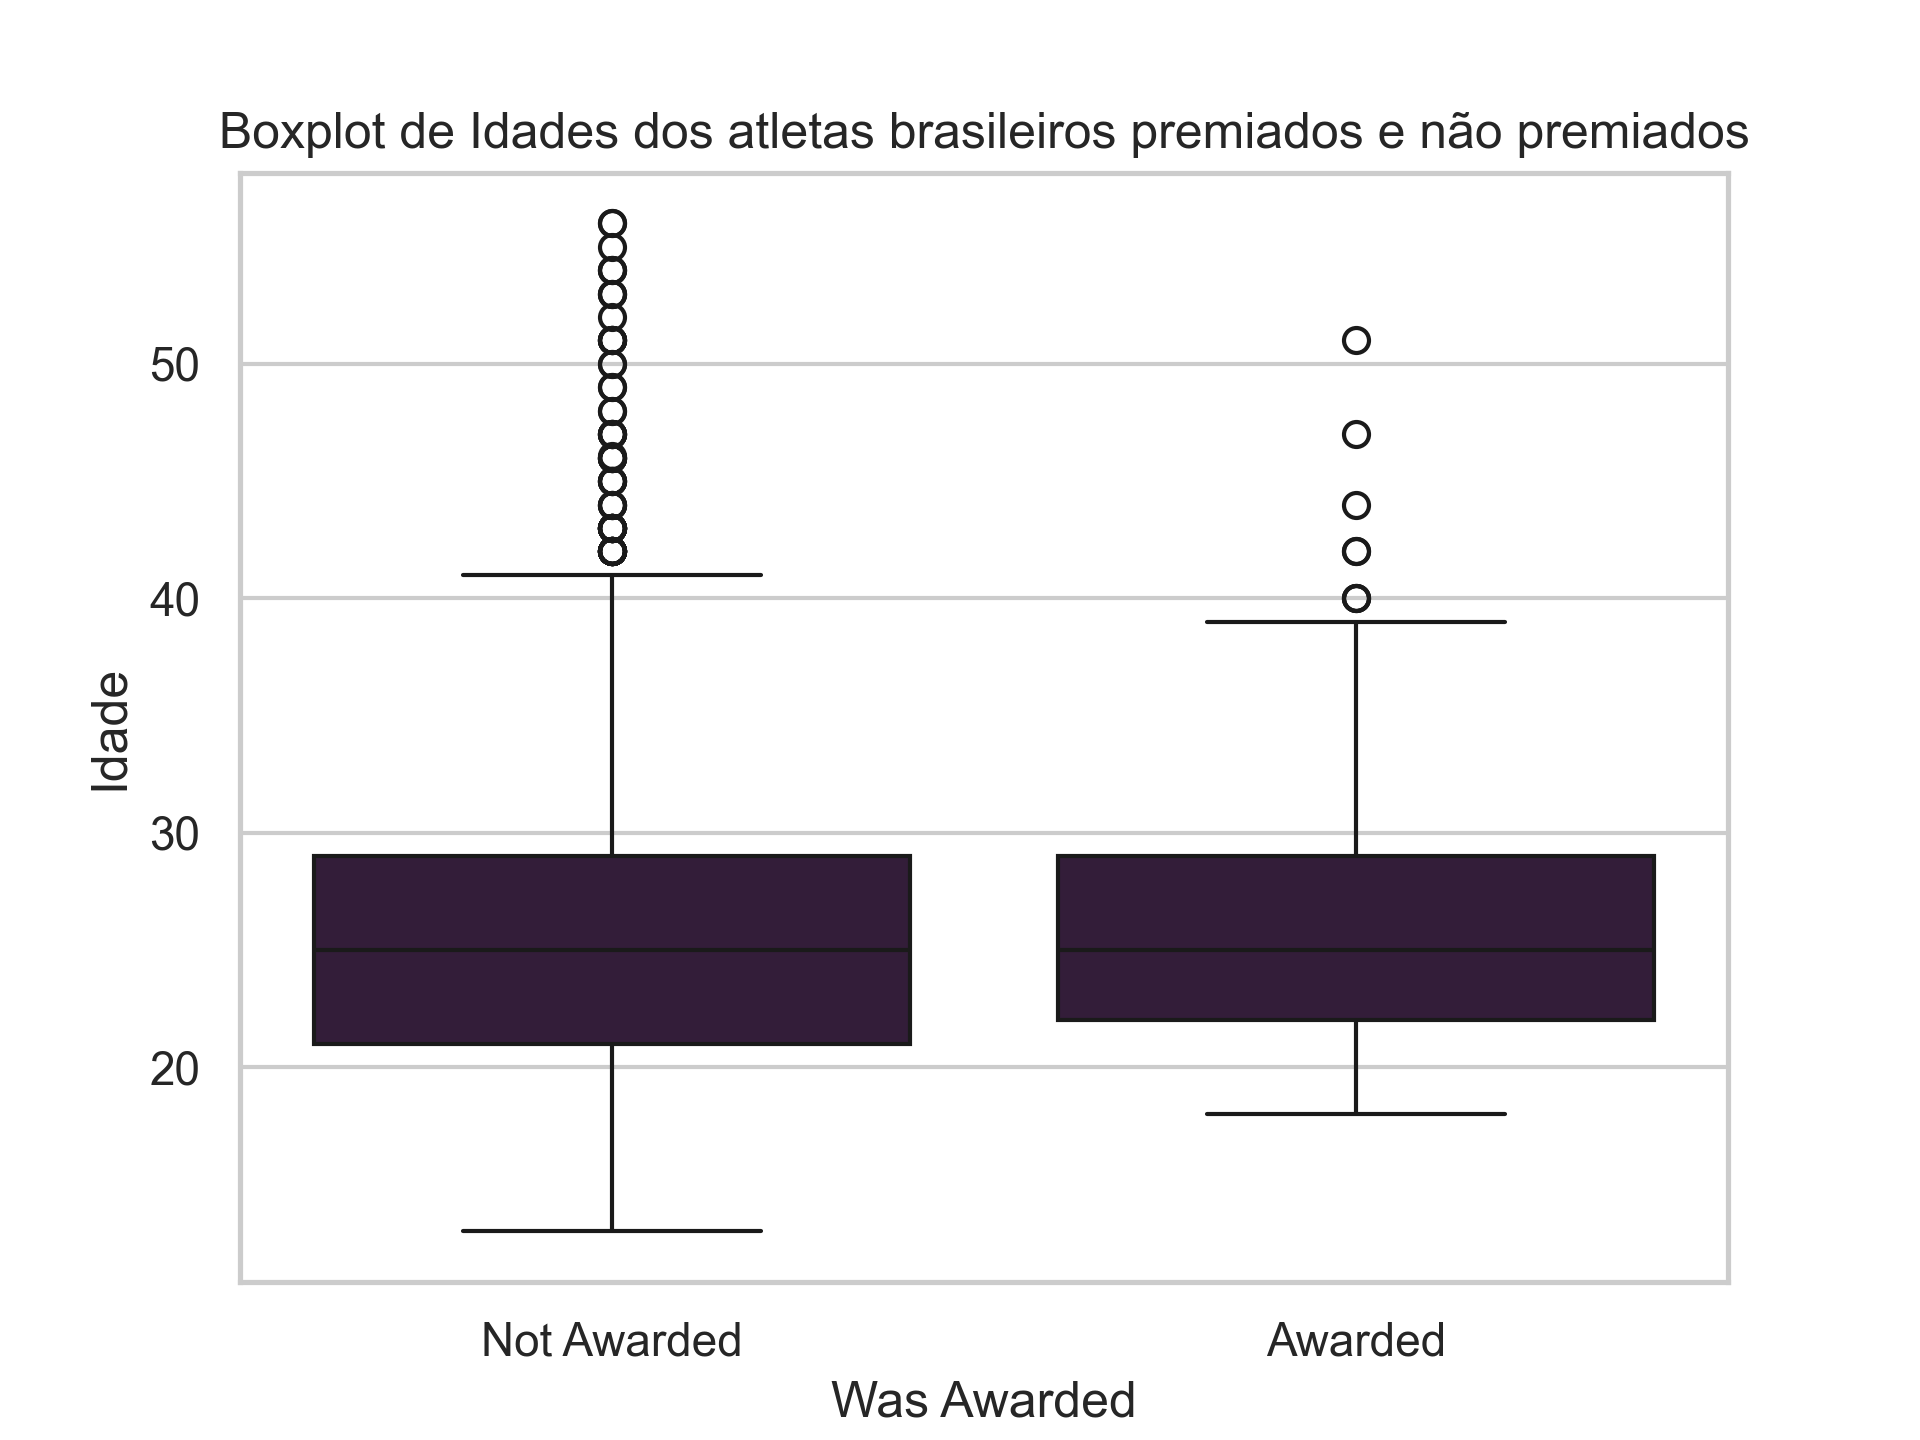
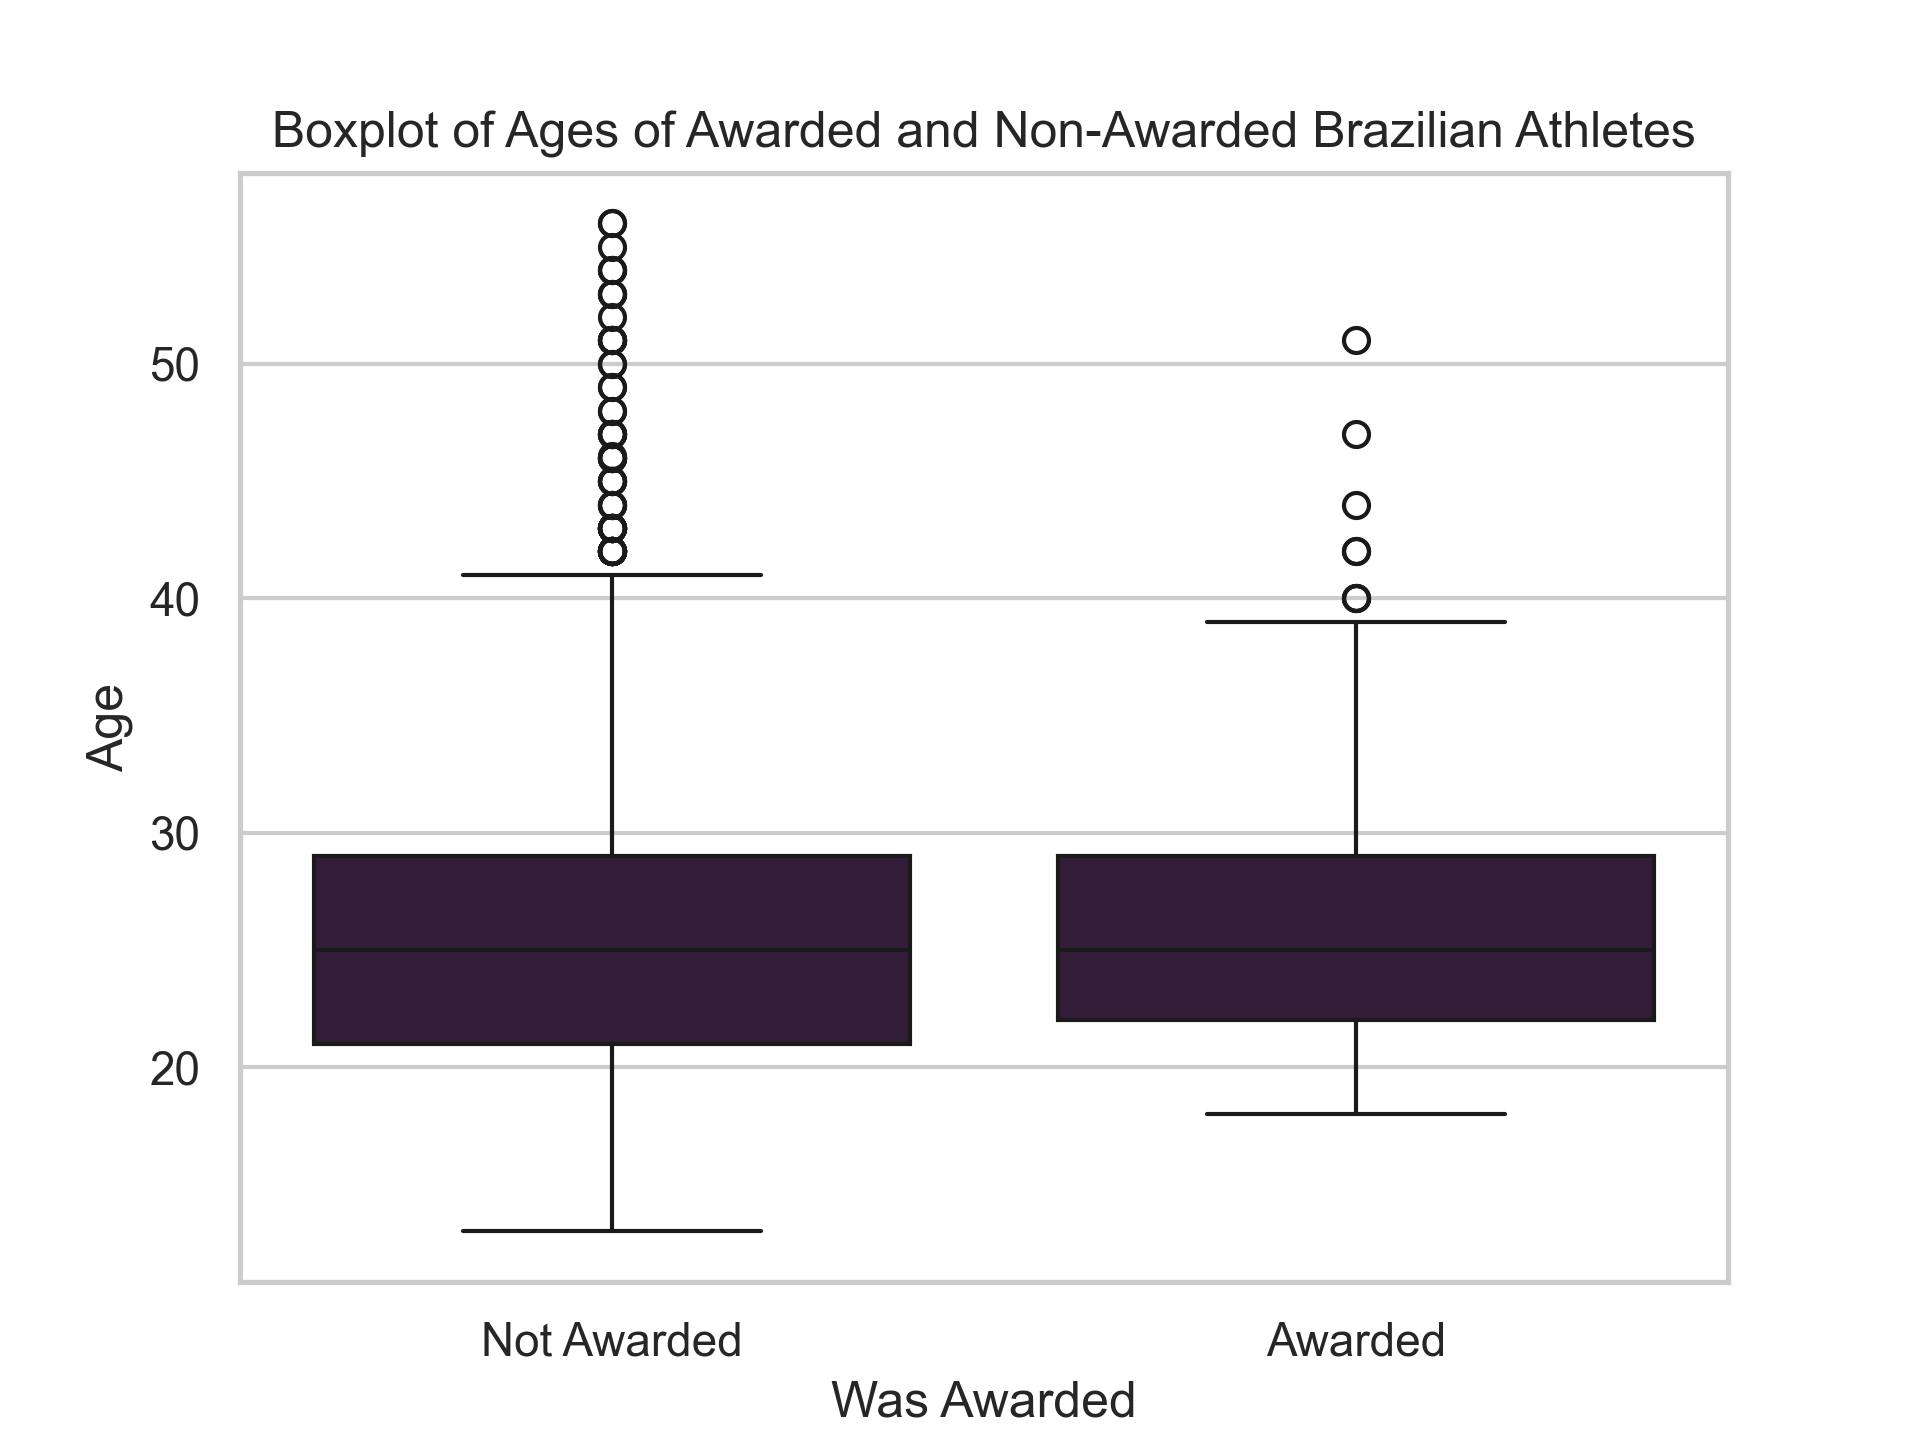
unittest medalist_x_urbanization

Changed region(s): [[0.3438, 0.0625, 0.9062, 0.125], [0.125, 0.0625, 0.3125, 0.125], [0.0312, 0.4688, 0.0938, 0.5625]]

diff --git a/tests/test_medalist_x_urbanization_analysis.py b/tests/test_medalist_x_urbanization_analysis.py
@@ -1,0 +1,140 @@
+import unittest
+import pandas as pd
+from src.medalist_x_urbanization_analysis import *
+from matplotlib import pyplot as plt
+
+
+class TestMedalistUrbanizationAnalysis(unittest.TestCase):
+
+    def setUp(self):
+        # Sample data for testing
+        self.athletes_df = pd.DataFrame({
+            'Year': [2016, 2016, 2016, 2016],
+            'NOC': ['USA', 'BRA', 'USA', 'BRA'],
+            'Medal': [1, 2, 0, 3]
+        })
+        self.urbanization_df = pd.DataFrame({
+            'Country': ['United States', 'Brazil'],
+            'Year': [2016, 2016],
+            'Pop_Absolute': [320000, 200000],
+            'Urban_Pop_Percent': [81.6, 84.3]
+        })
+        self.noc_df = pd.DataFrame({
+            'NOC': ['USA', 'BRA'],
+            'Country': ['United States', 'Brazil']
+        })
+
+    def test_prepare_2016_medalist_urbanization_analysis(self):
+        result = prepare_2016_medalist_urbanization_analysis(self.athletes_df, self.urbanization_df, self.noc_df)
+        
+        # Check if the result is a DataFrame
+        self.assertIsInstance(result, pd.DataFrame)
+        
+        # Check if the DataFrame has the expected columns
+        expected_columns = ['NOC', 'Medalists', 'Country', 'Pop_Absolute', 'Urban_Pop_Percent', 'Urban_Pop_Absolute', 'Urban_Medalist_Density']
+        self.assertTrue(all(column in result.columns for column in expected_columns))
+        
+        # Check if the DataFrame has the correct number of rows
+        self.assertEqual(len(result), 2)
+        
+        # Check if the values are calculated correctly
+        usa_row = result[result['Country'] == 'United States'].iloc[0]
+        self.assertEqual(usa_row['Medalists'], 1)
+        self.assertAlmostEqual(usa_row['Urban_Pop_Absolute'], 261119999.99999997)
+        self.assertAlmostEqual(usa_row['Urban_Medalist_Density'], 1 / (261119999.99999997))
+
+
+class TestCreateScatterplot2016MedalistUrbanization(unittest.TestCase):
+
+    def setUp(self):
+        self.data_2016 = pd.DataFrame({
+            'Country': ['United States', 'Brazil'],
+            'Urban_Pop_Percent': [81.6, 84.3],
+            'Urban_Medalist_Density': [0.000003, 0.000015],
+            'Medalists': [1, 5]
+        })
+
+    def test_create_scatterplot_2016_medalist_urbanization(self):
+        scatterplot = create_scatterplot_2016_medalist_urbanization(self.data_2016)
+        
+        # Check if the result is a matplotlib Axes object
+        self.assertIsInstance(scatterplot, plt.Axes)
+
+
+class TestPrepareMapVisualizationData(unittest.TestCase):
+
+    def setUp(self):
+        self.athletes_df = pd.DataFrame({
+            'Year': [2016, 2012, 2008, 2004],
+            'NOC': ['USA', 'BRA', 'USA', 'BRA'],
+            'Medal': [1, 2, 0, 3],
+            'Event': ['100m', '200m', '100m', '200m'],
+            'Team': ['USA Team', 'BRA Team', 'USA Team', 'BRA Team'],
+            'Games': ['2016 Summer', '2012 Summer', '2008 Summer', '2004 Summer'],
+            'Season': ['Summer', 'Summer', 'Summer', 'Summer'],
+            'City': ['Rio de Janeiro', 'London', 'Beijing', 'Athens'],
+            'Sport': ['Athletics', 'Athletics', 'Athletics', 'Athletics'],
+        })
+        self.urbanization_df = pd.DataFrame({
+            'Country': ['United States', 'Brazil', 'United States', 'Brazil'],
+            'Year': [2016, 2012, 2008, 2004],
+            'Pop_Absolute': [320000, 200000, 310000, 190000],
+            'Urban_Pop_Percent': [81.6, 84.3, 80.0, 83.0]
+        })
+        self.noc_df = pd.DataFrame({
+            'NOC': ['USA', 'BRA'],
+            'Country': ['United States', 'Brazil']
+        })
+
+    def test_prepare_map_visualization_data(self):
+        result = prepare_map_visualization_data(self.athletes_df, self.urbanization_df, self.noc_df)
+        
+        # Check if the result is a DataFrame
+        self.assertIsInstance(result, pd.DataFrame)
+        
+        # Check if the DataFrame has the expected columns
+        expected_columns = ['Year', 'NOC', 'Medal', 'Country', 'Pop_Absolute', 'Urban_Pop_Percent']
+        self.assertTrue(all(column in result.columns for column in expected_columns))
+
+
+class TestCalculateDynamicGrowth(unittest.TestCase):
+
+    def setUp(self):
+        self.data = pd.DataFrame({
+            'Country': ['United States', 'United States', 'Brazil', 'Brazil'],
+            'Year': [2000, 2016, 2000, 2016],
+            'Urban_Pop_Percent': [80.0, 81.6, 82.0, 84.3]
+        })
+
+    def test_calculate_dynamic_growth(self):
+        result = calculate_dynamic_growth(self.data, 'Urban_Pop_Percent')
+        
+        # Check if the result is a DataFrame
+        self.assertIsInstance(result, pd.DataFrame)
+        
+        # Check if the DataFrame has the expected columns
+        expected_columns = ['Country', 'Urban_Pop_Percent_Dynamic_Growth']
+        self.assertTrue(all(column in result.columns for column in expected_columns))
+
+
+class TestCreateMapVisualization(unittest.TestCase):
+
+    def setUp(self):
+        self.data = pd.DataFrame({
+            'Year': [2012, 2012, 2016, 2016],
+            'NOC': ['CHN', 'BRA', 'CHN', 'BRA'],
+            'Medal': [10, 5, 15, 20],
+            'Country': ['China', 'Brazil', 'China', 'Brazil'],
+            'Pop_Absolute': [320000, 200000, 310000, 190000],
+            'Urban_Pop_Percent': [81.6, 84.3, 80.0, 83.0]
+        })
+
+    def test_create_map_visualization(self):
+        map_visualization = create_map_visualization(self.data)
+        
+        # Check if the result is a matplotlib Figure object
+        self.assertEqual(map_visualization.__class__.__name__, "module")
+
+
+if __name__ == '__main__':
+    unittest.main()

diff --git a/src/medalist_x_urbanization_analysis.py b/src/medalist_x_urbanization_analysis.py
@@ -61,9 +61,9 @@ def create_scatterplot_2016_medalist_urbanization(data_2016: pd.DataFrame) -> pl
     scatterplot = sns.scatterplot(x='Urban_Pop_Percent', y='Urban_Medalist_Density', data=data_2016, size='Medalists', sizes=(10, 100), legend=False)
     scatterplot.set_yscale('log') # Escala logarítmica para melhor visualização
 
-    scatterplot.set_title('Urbanização X Densidade Urbana de Medalhas (2016)')
-    scatterplot.set_xlabel('População Urbana (%)')
-    scatterplot.set_ylabel('Medalhas por Habitante Urbano')
+    scatterplot.set_title('Urbanization vs Urban Medal Density (2016)')
+    scatterplot.set_xlabel('Urban Population (%)')
+    scatterplot.set_ylabel('Medals per Urban Inhabitant')
 
     # Identificando o top 5 e bottom 5 por Urban_Medalist_Density; também pegando o top 5 por medalhistas
     top_5_countries = data_2016.nlargest(5, 'Urban_Medalist_Density')
@@ -124,8 +124,8 @@ def calculate_dynamic_growth(data: pd.DataFrame, value_column: str) -> pd.DataFr
     """Calcula o crescimento percentual de o valor especificado por coluna entre o primeiro e o último ano disponível do país.
 
     Args:
-        data (pd.DataFrame): df com colunas: ,Year,NOC,Medalists,Country,Pop_Absolute,Urban_Pop_Percent
-        value_column (str): Colunas para calcular crescimento (e.g. 'Medalists' or 'Urban_Pop_Percent').
+        data (pd.DataFrame): df com colunas: ,Year,NOC,Medal,Country,Pop_Absolute,Urban_Pop_Percent
+        value_column (str): Colunas para calcular crescimento (e.g. 'Medal' or 'Urban_Pop_Percent').
 
     Returns:
         pd.DataFrame: Dataframe com País e Crescimento Percentual daquela coluna.
@@ -191,7 +191,7 @@ def create_map_visualization(data: pd.DataFrame) -> plt:
     world_medals.plot(column='Medal_Dynamic_Growth', cmap='Reds', legend=False, ax=ax[1], missing_kwds={'color': 'lightgrey'}, linewidth=0.25, edgecolor='black')
     ax[1].set_title('Medal Growth (First to Last Available Year)')
     
-    fig.suptitle('Comparison of Growth in Urbanization and Medalists (1956-2016)', fontsize=18, weight='bold')
+    fig.suptitle('Comparison of Growth in Urbanization and Medals (1956-2016)', fontsize=18, weight='bold')
     plt.subplots_adjust(bottom=0.55)
 
     return plt

diff --git a/src/age_analysis.py b/src/age_analysis.py
@@ -166,9 +166,9 @@ def create_boxplot_sport_with_the_most_outliers(df: pd.DataFrame) -> plt:
         plt.figure()
         boxplot = sns.boxplot(x='Sport', y='Age', data=df_maioresporte)
         boxplot.set_yscale('linear')
-        plt.title('Boxplot de Idades por Esporte')
-        plt.xlabel('Esporte')
-        plt.ylabel('Idade')
+        plt.title('Age Boxplot by Sport')
+        plt.xlabel('Sport')
+        plt.ylabel('Age')
 
         return plt
     except KeyError:
@@ -221,9 +221,9 @@ def create_boxplot_top_3_esportes_outliers(df: pd.DataFrame)-> plt:
 
 
         # Adicionando título e rótulos
-        plt.title('Boxplot de Idades por Esporte')
-        plt.xlabel('Esporte')
-        plt.ylabel('Idade')
+        plt.title('Age Boxplot by Sport')
+        plt.xlabel('Sport')
+        plt.ylabel('Age')
         
         return plt
     except KeyError:
@@ -273,9 +273,9 @@ def create_boxplot_top_3_esportes_most_awarded(df: pd.DataFrame) -> plt:
         sns.boxplot(x='Sport', y='Age', data=df_top_3_mais)
 
         # Adicionando título e rótulos
-        plt.title('Boxplot de Idades dos Esportes mais premiados pelo Brasil')
-        plt.xlabel('Esporte')
-        plt.ylabel('Idade')
+        plt.title('Boxplot of Ages of the Most Awarded Sports by Brazil')
+        plt.xlabel('Sport')
+        plt.ylabel('Age')
 
         return plt
     except KeyError:
@@ -322,10 +322,10 @@ def create_boxplot_age_medal_status_brazil(df: pd.DataFrame) -> plt:
         sns.boxplot(x='Medal', y='Age', data=atletas_brasileiros)
 
         # Adicionando título e rótulos
-        plt.title('Boxplot de Idades dos atletas brasileiros premiados e não premiados')
+        plt.title('Boxplot of Ages of Awarded and Non-Awarded Brazilian Athletes')
         plt.xlabel('Was Awarded')
         plt.xticks([0, 1], ['Not Awarded', 'Awarded'])
-        plt.ylabel('Idade')
+        plt.ylabel('Age')
 
         # Exibindo o gráfico
         return plt
